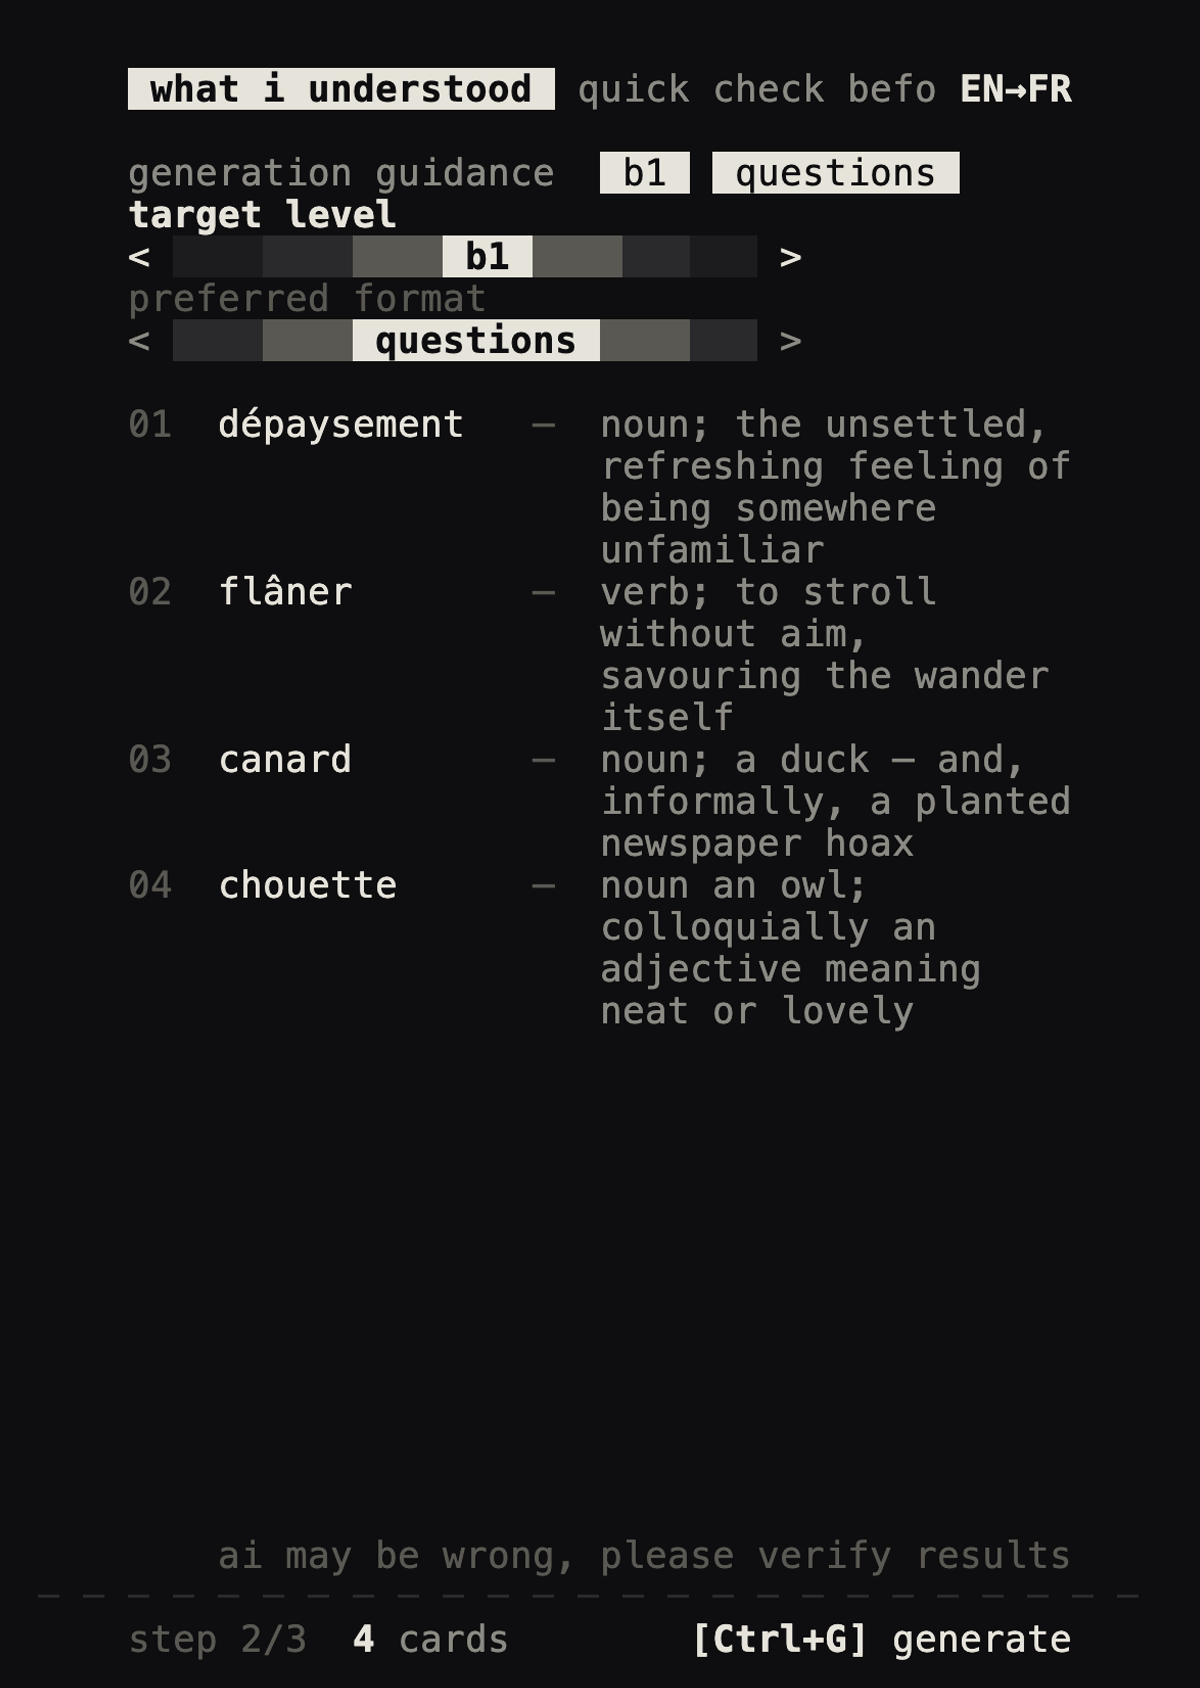
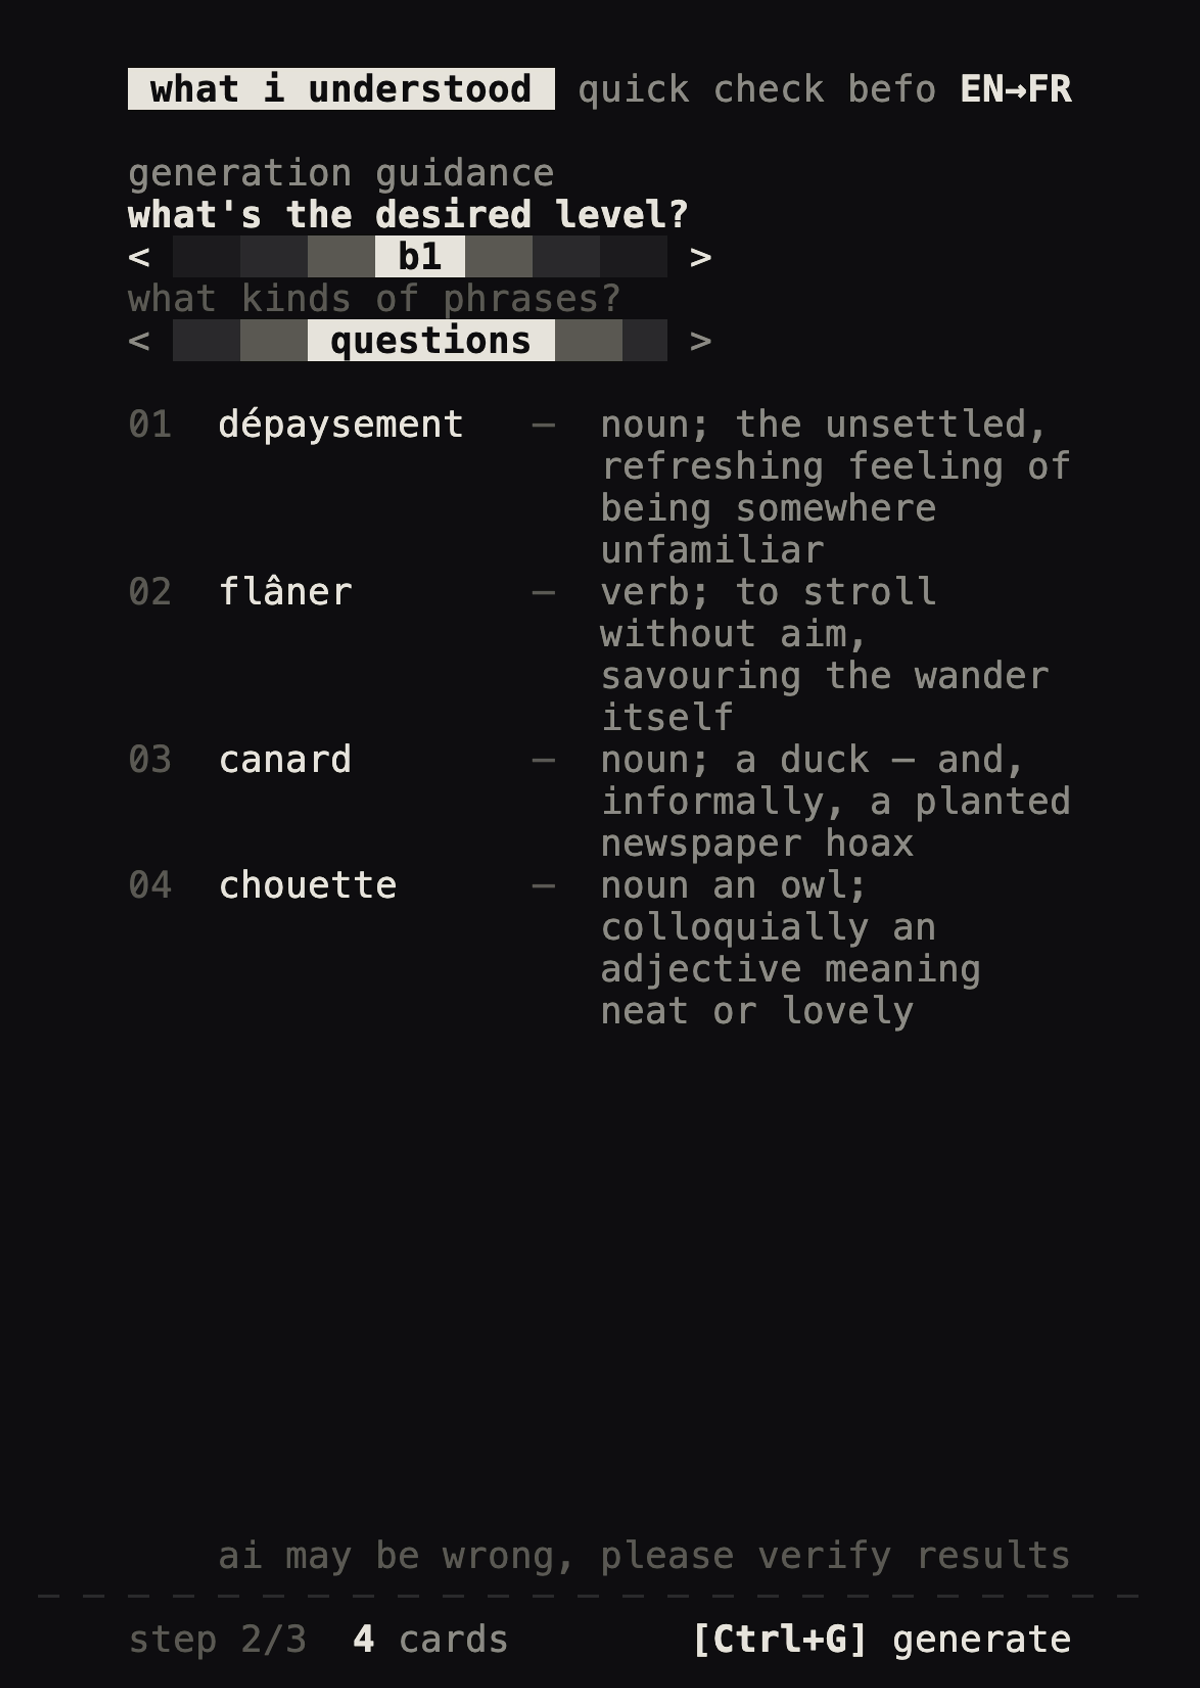
Polish generation guidance editor

Changed region(s): [[0.0925, 0.0924, 0.8017, 0.2156]]

diff --git a/tests/batch_sentence_settings.rs b/tests/batch_sentence_settings.rs
@@ -174,16 +174,30 @@ fn review_places_quiet_generation_guidance_one_blank_row_above_words() {
 }
 
 #[test]
-fn expanded_guidance_uses_plain_axis_and_choice_copy() {
-    let rendered = flat_at(&review(2).sentence_settings_opened(), 120, 24);
+fn expanded_guidance_hides_summary_chips_and_uses_card_editor_questions() {
+    let area = terminal(120, 24);
+    let app = review(2).sentence_settings_opened();
+    let configured = review(2)
+        .with_sentence_settings(SentenceBatchSettings::new(
+            Some(SentenceLevel::B1),
+            SentenceTypeMix::Questions,
+        ))
+        .sentence_settings_opened();
+    let rendered = flat_at(&app, area.width, area.height);
+    let active = style_of(&app, "what's the desired level?", area.width, area.height);
+    let inactive = style_of(&app, "what kinds of phrases?", area.width, area.height);
     assert!(
-        rendered.contains("target level")
-            && rendered.contains("from example")
-            && rendered.contains("preferred format")
-            && rendered.contains("best fit")
-            && !rendered.contains("what's the desired level?")
-            && !rendered.contains("how to mix the types?"),
-        "expanded guidance must use the accepted plain-language axes and defaults: {rendered}"
+        line_of(&app, "generation guidance", area.width, area.height) == "generation guidance"
+            && line_of(&configured, "generation guidance", area.width, area.height,)
+                == "generation guidance"
+            && rendered.contains("what's the desired level?")
+            && rendered.contains("what kinds of phrases?")
+            && rendered.matches("best fit").count() == 2
+            && active.0 == Color::Rgb(0xe6, 0xe3, 0xda)
+            && active.2.contains(Modifier::BOLD)
+            && inactive.0 == Color::Rgb(0x5a, 0x59, 0x53)
+            && !inactive.2.contains(Modifier::BOLD),
+        "expanded guidance must replace summary chips with two card-editor-style best-fit questions: {rendered}"
     );
 }
 
@@ -434,16 +448,16 @@ fn narrow_guidance_wraps_each_full_carousel_without_losing_hit_regions() {
     let lines = rendered.lines().collect::<Vec<_>>();
     let level = lines
         .iter()
-        .position(|line| line.contains("target level"))
+        .position(|line| line.contains("what's the desired level?"))
         .expect("narrow guidance must keep the level label");
     let format = lines
         .iter()
-        .position(|line| line.contains("preferred format"))
+        .position(|line| line.contains("what kinds of phrases?"))
         .expect("narrow guidance must keep the format label");
     assert!(
         lines
             .get(level + 1)
-            .is_some_and(|line| line.contains("from example"))
+            .is_some_and(|line| line.contains("best fit"))
             && lines
                 .get(format + 1)
                 .is_some_and(|line| line.contains("best fit"))
@@ -472,13 +486,13 @@ fn opening_settings_scrolls_a_long_review_to_the_top_carousels() {
     let questions = cell_of_on_line(
         &app,
         "questions",
-        "preferred format",
+        "what kinds of phrases?",
         area.width,
         area.height,
     );
     assert!(
         app.body_scroll() == 0
-            && rendered.contains("preferred format")
+            && rendered.contains("what kinds of phrases?")
             && rendered.contains("term-01")
             && sentence_settings_event_at(&app, area, questions.0, questions.1)
                 == Some(AppEvent::SentenceSettingsChoose(BatchSettingsRow::Types, 2))

diff --git a/src/tui/sentence_editor.rs b/src/tui/sentence_editor.rs
@@ -44,7 +44,7 @@ impl BatchSettingsRow {
     #[must_use]
     pub fn choice_token(self, index: usize) -> Option<&'static str> {
         match (self, index) {
-            (Self::Level, 0) => Some("from example"),
+            (Self::Level, 0) => Some("best fit"),
             (Self::Level, 1) => Some("a1"),
             (Self::Level, 2) => Some("a2"),
             (Self::Level, 3) => Some("b1"),
@@ -391,7 +391,7 @@ mod tests {
     };
 
     #[test]
-    fn batch_level_carousel_names_the_unpinned_choice_from_example() {
+    fn batch_level_carousel_names_the_unpinned_choice_best_fit() {
         let settings = BatchSettingsRow::Level
             .advanced(SentenceBatchSettings::default(), true)
             .with_types(SentenceTypeMix::BestFit);
@@ -401,7 +401,7 @@ mod tests {
                 settings.level(),
                 BatchSettingsRow::Level.selected(settings),
             ),
-            (Some("from example"), Some(SentenceLevel::A1), 1),
+            (Some("best fit"), Some(SentenceLevel::A1), 1),
             "the unpinned batch level lost its plain-language label or adjacent CEFR choice"
         );
     }

diff --git a/examples/tui_states.rs b/examples/tui_states.rs
@@ -941,9 +941,12 @@ mod tests {
             .collect::<Vec<_>>()
             .join("\n");
         assert!(
-            rendered.contains("generation guidance   b1   questions")
-                && rendered.contains("target level")
-                && rendered.contains("preferred format")
+            rendered.contains("generation guidance")
+                && !rendered.contains("generation guidance   b1")
+                && rendered.contains("what's the desired level?")
+                && rendered.contains("what kinds of phrases?")
+                && rendered.contains("b1")
+                && rendered.contains("questions")
                 && rendered.contains("[Esc] close"),
             "synthetic generation guidance must show both retained choices and editor rows:\n{rendered}"
         );

diff --git a/src/tui/screens/what_i_understood.rs b/src/tui/screens/what_i_understood.rs
@@ -170,6 +170,9 @@ pub(crate) fn content_height(app: &App, width: usize) -> u16 {
 fn settings_summary_line(app: &App) -> Line<'static> {
     let settings = app.sentence_settings();
     let mut spans = vec![Span::styled(format!("{SETTINGS_LABEL}  "), palette::dim())];
+    if app.sentence_settings_editor().is_some() {
+        return Line::from(spans);
+    }
     if settings.level().is_none() && !settings.types().pins() {
         spans.push(Span::styled(
             format!(" {DEFAULT_GUIDANCE_LABEL} "),

diff --git a/tests/ui_contract.rs b/tests/ui_contract.rs
@@ -212,9 +212,9 @@ fn check_batch_sentence_settings_contract(contract: &Contract, errs: &mut Vec<St
         return;
     };
     for text in [
-        "target level",
-        "from example|a1|a2|b1|b2|c1|c2",
-        "preferred format",
+        "what's the desired level?",
+        "best fit|a1|a2|b1|b2|c1|c2",
+        "what kinds of phrases?",
         "best fit|statements|questions|dialogue|mixed",
     ] {
         if !text_contains(axes, text) {

diff --git a/src/tui/screens/sentence_labels.rs b/src/tui/screens/sentence_labels.rs
@@ -632,8 +632,8 @@ fn batch_question_column() -> usize {
 
 fn batch_row_label(row: BatchSettingsRow) -> &'static str {
     match row {
-        BatchSettingsRow::Level => "target level",
-        BatchSettingsRow::Types => "preferred format",
+        BatchSettingsRow::Level => "what's the desired level?",
+        BatchSettingsRow::Types => "what kinds of phrases?",
     }
 }
 

diff --git a/docs/tui-states/state-map.md b/docs/tui-states/state-map.md
@@ -128,9 +128,11 @@ level-then-format order with the brighter pinned-label treatment: `b1`,
 `questions`, or `b1  questions`.
 
 `S`, a click on the compact row, or moving up from the first word opens two
-inline carousels between the compact row and the blank separator: `target
-level` with `from example`, `a1`, `a2`, `b1`, `b2`, `c1`, `c2`, and `preferred
-format` with `best fit`, `statements`, `questions`, `dialogue`, `mixed`. They use
+inline carousels between the quiet `generation guidance` label and the blank
+separator. Every compact summary tag is hidden while they are open. The rows
+are `what's the desired level?` with `best fit`, `a1`, `a2`, `b1`, `b2`, `c1`,
+`c2`, and `what kinds of phrases?` with `best fit`, `statements`, `questions`,
+`dialogue`, `mixed`. They use
 the same fixed-track marker and two-cell `< ` / ` >` hit geometry as the
 per-card editor. The focused label is white and bold, the selected chip is
 inverted, and the entire block follows the ordinary body scroll so a short
@@ -161,7 +163,7 @@ Fresh generated metadata may attribute the sentence by register, type, and an
 operational CEFR band. The lowercase choices are `a1`, `a2`, `b1`, `b2`, `c1`,
 and `c2`. They classify only the language surrounding the target term; the
 target term itself is exempt, and the estimate is not an official proficiency
-assessment. With the visible batch level `from example`, a new card first
+assessment. With the visible batch level `best fit`, a new card first
 gets the natural sentence required by its approved understanding and only then
 receives a descriptive level; that default initial generation does not target
 a band. An explicit batch-level choice is the initial-generation exception and

diff --git a/AGENTS.md b/AGENTS.md
@@ -351,7 +351,7 @@ the `Your cards` and `Done` indices by number).
 The level chips are the lowercase operational CEFR bands `a1`, `a2`, `b1`,
 `b2`, `c1`, and `c2`. They classify only the language surrounding the target
 term; the target term itself is exempt, and the estimate is not an official
-proficiency assessment. With the TUI's `from example` level (stored as no
+proficiency assessment. With the TUI's `best fit` level (stored as no
 level), fresh cards first get the natural sentence required by their approved
 understanding and only then receive a descriptive level; that default initial
 generation does not target a band. An explicit batch-level choice is the
